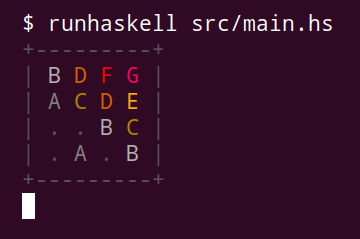
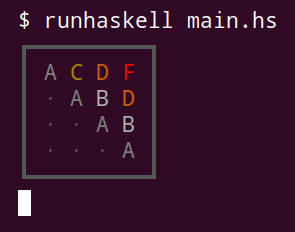
Use unicode for the aesthetics.

diff --git a/README.md b/README.md
@@ -7,8 +7,8 @@ This is an interactive puzzle game with similar mechanics to
 [Threes](http://play.threesgame.com/), [1024](https://1024game.org/),
 [2048](https://play2048.co/), etc. I wrote it as a first attempt at learning
 Haskell, so it's pretty basic (and also probably not as idiomatic as it might 
-be). It's made to look best on a terminal that supports 256 colors and has a 
-dark background.
+be). It will look best on a terminal with a dark background that supports 
+unicode and 256 colors.
 
 Each turn, an A or B will be added to an empty space on the board, and you 
 can use the arrow keys to slide all tiles to the left, right, top, or bottom.
@@ -24,5 +24,5 @@ Running
 I haven't made a distribution build, but it can be run using `runhaskell`:
 
 ```
-$ runhaskell src/main.hs
+$ runhaskell main.hs
 ```
